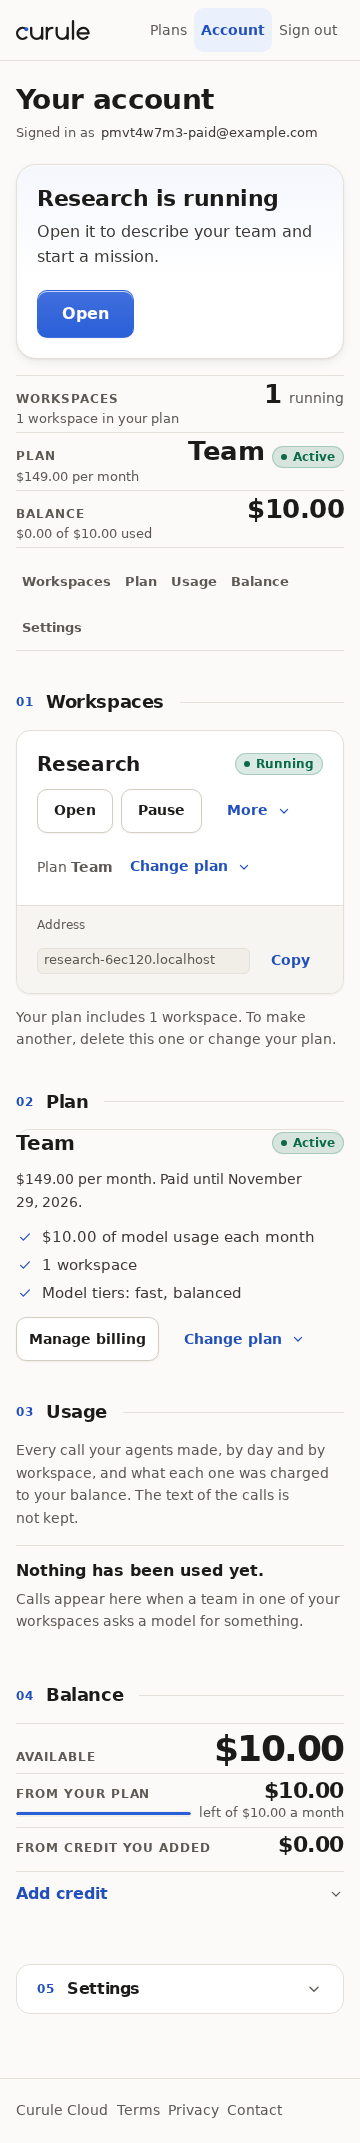
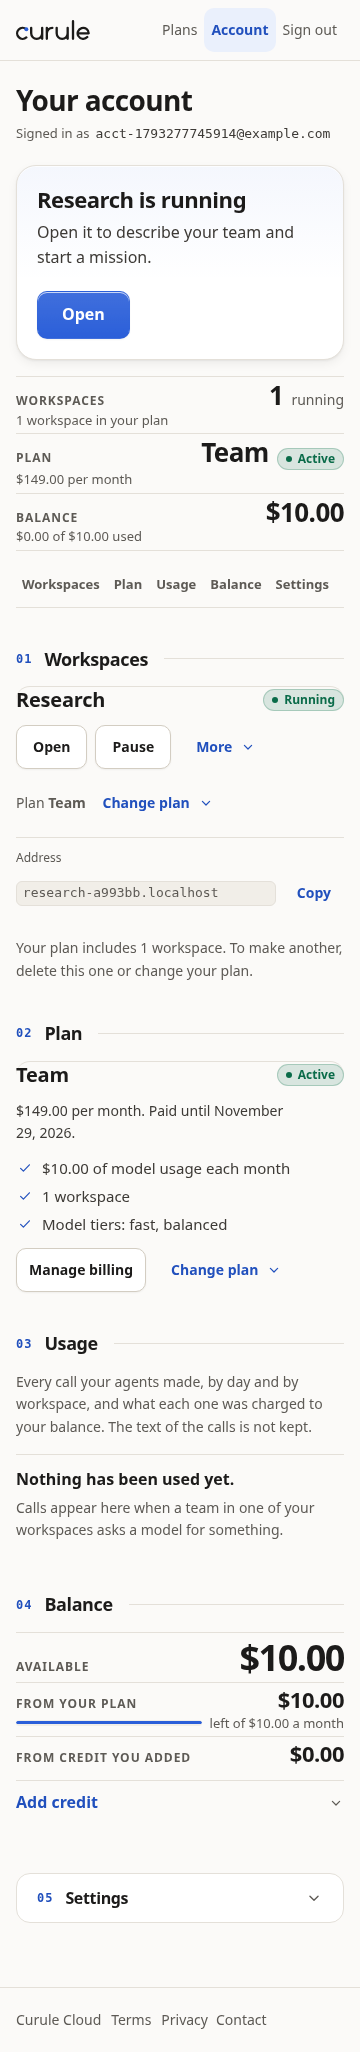
chore(ux): a seventh set of three passes of 29 Oct, with their before and after
The marketing site: the hero's plate holds one caption height, and its full-size link is a chip in the
plate's chrome (897c3ba). The account pages: the workspace is a record at a phone's edge, and More keeps
its row at 320 (78d6528). The console: a closed Overview row is one press across its width, not a handle
at its end (83a78be). The panel shows where the three surfaces stand now.

diff --git a/site/ux/index.html b/site/ux/index.html
@@ -53,7 +53,34 @@
   <h2>Where they stand now</h2>
   <div class="pair three"><a class="shot" href="shots/landing-now.png"><img src="shots/landing-now.png" alt="the landing page" loading="lazy"><span>the landing page</span></a><a class="shot" href="shots/account-now.png"><img src="shots/account-now.png" alt="the account pages" loading="lazy"><span>the account pages</span></a><a class="shot" href="shots/console-now.png"><img src="shots/console-now.png" alt="the console" loading="lazy"><span>the console</span></a></div>
 </section>
-<p class="stat"><span><b>66</b> passes</span><span><b>65</b> merged</span><span><b>4</b> surfaces</span><span>updated 29 Oct 2026 10:32</span></p>
+<p class="stat"><span><b>69</b> passes</span><span><b>68</b> merged</span><span><b>4</b> surfaces</span><span>updated 29 Oct 2026 16:20</span></p>
+<article class="pass">
+  <header>
+    <h2>the marketing site</h2>
+    <p class="when">29 Oct 2026 &middot; 15:57</p>
+  </header>
+  <div class="pair"><a class="shot" href="shots/20261029-1557-before.png"><img src="shots/20261029-1557-before.png" alt="At 360 &times; 800 in light, the home page scrolled to y = 500: under the pinned 69px header the price line's tail and Compare the plans sit at 22.8&ndash;103.8, the view switcher is a 268.7 &times; 50 trough whose third cell ends at x = 284.7 while the plate below it ends at 344, the plate's 40px chrome at 204.8&ndash;244.8 is empty on its right, the capture runs 244.8&ndash;448.6, and in the 4-line caption the third line starts at 514.8 &mdash; 31.8px under the second at 483 &mdash; because the 66.9 &times; 44 Full size link rides in it at x = 218.5&ndash;285.5, leaving a visible gap before &quot;each one opening in a reader. Full size &nearr;&quot;; the two notes follow at 577.5 and 634.3 and the first claim at 733.5." loading="lazy"><span>before this pass</span></a><a class="shot" href="shots/20261029-1557-after.png"><img src="shots/20261029-1557-after.png" alt="The same 360 &times; 800 light frame at the same y = 500: the switcher is now 328 &times; 50, its three 109.3px cells ending at x = 344 with the plate; the plate's 44px chrome carries Full size &nearr; as an 87.9 &times; 44 chip at x = 249.1&ndash;337 instead of in the caption; the caption is three evenly set lines starting at 467.5, 487 and 506.5 (19.5px apart) and 107px tall; the plate is 356.8px, the notes begin at 576.5 and the first claim at 732.5, and the three views all give the same 12,657px page." loading="lazy"><span>after</span></a></div>
+  <ul class="did"><li><b>The plate's way to its full size is a chip in its chrome, not a 44px box inside a 13px caption.</b> At 360 the inline link made the caption's last line 44px tall, so its third line stood 31.8px under the second (line tops 963.5 / 983 / 1,014.8) instead of 19.5; the same link, the same words and the same name are now an 87.9 &times; 44 chip in the bar (249.1&ndash;337, 44px of chrome, the bar 40 &rarr; 44) and the caption is three lines on the 19.5 grid (967.5 / 987 / 1,006.5). It is the 9th tab stop, the other two chips are display:none, no-script shows the right one from the same :checked rule, forced colours keep it LinkText with its 1px rule, and print hides the switcher and keeps the caption.</li><li><b>Switching view no longer moves the page: 19.5px before, 0 at every width.</b> At 360 the page was 12,658 with Overview and 12,677 with Events, and the proof 1,233.5 against 1,253; one caption height (107 at 360, 68 from 720) makes all three views 12,657 and the proof 1,232.5. The same holds at 320 (13,625 / 13,644 &rarr; 13,624), 390 (12,293 / 12,312 &rarr; 12,292) and 1,440, where the caption was 73 and is 68 and the page is 12,119.</li><li><b>On a phone the switcher is the plate's width: 268.7 &rarr; 328 at 360.</b> Its cells are 109.3 (were 87.6) and it ends at x = 344, the frame's own edge, instead of 284.7 (59.3 short); at 320 it is 288 (was 261.5) and at 390 358 (was 274). The rule stops at 720, where the control is a mouse target: 768 and 1,440 keep the 323.9px trough and the caption's two lines.</li><li><b>It costs nothing above the plate and gives 1px back: the plate is 356.8 (was 357.8 / 377.3) and the page 12,657 (was 12,658).</b> The 44px bar pays 4px, the caption's one height gives 5 back at the Overview view (112 &rarr; 107), and the page is 1px shorter at 320 / 360 / 390 / 1,440 and 20px at 768 (12,388 &rarr; 12,368, the caption 92.5 &rarr; 68). The eyebrow (85), h1 (150.6), lede (289), actions (458.8), price (522.8), switcher (637.8) and plate (703.8) are identical at 360, so the first screen is unchanged.</li><li><b>Nothing was lost.</b> 1,491 words, 42 links, 61 controls, 11 sections and 10 named captures in the same counts before and after; 70 page/width/theme pairs have 0 horizontal scroll, 0 text under 12px and 0 console errors; axe-core reports 0 WCAG 2.0&ndash;2.2 A/AA violations at 360 light and 1,440 dark. Every caption sentence stays (only the link's two words moved into the bar), the three aria-labels still name their capture, and the tour's seven other Full size links are untouched.</li></ul>
+  <p class="meta">8 files changed &middot; <code>897c3ba</code> &middot; suite green, merged</p>
+</article>
+<article class="pass">
+  <header>
+    <h2>the account pages</h2>
+    <p class="when">29 Oct 2026 &middot; 16:07</p>
+  </header>
+  <div class="pair"><a class="shot" href="shots/20261029-1607-before.png"><img src="shots/20261029-1607-before.png" alt="At 360 &times; 800 in light, scrolled so the contents line is cut at the top and 01 Workspaces begins at y = 124, the workspace named Research is a white rounded card from y = 686 to 950 that is 21px in from every rule around it &mdash; the name at x = 37, Open / Pause / More at x = 37&ndash;294.4, and the tinted address strip at 17&ndash;343 with Copy ending at 323 &mdash; while the Plan record 135px below starts at the page's edge: Team at x = 16 and Manage billing at x = 16&ndash;146.1." loading="lazy"><span>before this pass</span></a><a class="shot" href="shots/20261029-1607-after.png"><img src="shots/20261029-1607-after.png" alt="The same account, width, scheme and scroll: the workspace is a ruled record from y = 686 to 925.4 at the page's edge, its name at x = 16 in line with 01 Workspaces and with Team below, Open / Pause / More at x = 16&ndash;273.4 in line with Manage billing, its address a ruled line 16&ndash;344 with Copy ending on 344, the record 25px shorter and the Plan panel consequently 25px higher, at y = 1,022.1 with its own record at 1,060.6; the page is 2,052 instead of 2,077." loading="lazy"><span>after</span></a></div>
+  <ul class="did"><li><b>On a phone the workspace is a record at the page's edge, as the balance and the plan already are.</b> Below 721 the workspaces were the last record still drawn as a card: 20px of padding and a 1px border left its content <b>286px of the page's 328</b>, so &quot;Research&quot; began at x = 37 while <code>01 Workspaces</code>, <code>02 Plan</code>, <code>Team</code>, <code>$10.00</code> and <code>Add credit</code> all begin at 16, and its address strip sat at <b>17&ndash;343</b> &mdash; a pixel in from both edges. The phone rule that zeroes a record's card now names <code>.row</code> instead of the plan's own row, and the address strip loses the negative margins that bled it to a card's edge. Measured at 360: content box <b>37&ndash;323 &rarr; 16&ndash;344</b>, row <b>264.2 &rarr; 239.2px</b>, <code>Open</code>/<code>Pause</code>/<code>More</code> <b>37&ndash;294.4 &rarr; 16&ndash;273.4</b>, <code>Copy</code> <b>262.9&ndash;323 &rarr; 283.9&ndash;344</b>, page <b>2,077 &rarr; 2,052</b>.</li><li><b>At 320 the 42px the card's padding held was exactly the width the three actions needed.</b> <code>Open 71.5 + Pause 75.7 + More 94.2</code> and two 8px gaps are <b>257.4px</b> in the card's 248, so <code>More</code> dropped to a second row and the record was <b>318.4px</b>; given the page's 288 it is one 44px row at x = 16&ndash;273.4, the record <b>239.2</b> and the page <b>2,264 &rarr; 2,185</b> &mdash; 79px, the most any width gains. The address gains a line there too: <code>research-b32d75.localhost</code> is 217.9px of type and had 180, so its chip wrapped to <b>177.9 &times; 46.2</b>; at the edge it has 219.9 and is <b>219.9 &times; 25.4</b>, one line (address 90.4 &rarr; 88.2).</li><li><b>What it costs is 25px at every phone, and 768 and 1,440 do not move.</b> 390: <b>2,055 &rarr; 2,030</b>; 719 and 720 (the rule's edge): <b>1,788 &rarr; 1,763</b>; 721, where the card returns in both halves: <b>2,056</b> in both, and 768 <b>2,065</b> and 1,440 <b>2,102</b> to the pixel. Nothing above the record moves (stage 165&ndash;359.8, glance 375.8&ndash;550.7, contents 562.7&ndash;607.7, <code>01 Workspaces</code> 647.7) and everything below rises by the saving: Plan <b>1,047.1 &rarr; 1,022.1</b>, Usage <b>1,357.4 &rarr; 1,332.4</b>, Balance <b>1,618.5 &rarr; 1,593.5</b>, Settings <b>1,897.7 &rarr; 1,872.7</b>, the &quot;plan includes 1 workspace&quot; note <b>962.3 &rarr; 937.3</b>. A workspace while Starting is <b>319.8 &rarr; 294.8</b>, paused the record holds at 302.4 with <code>Resume</code> at 16, and with <code>/api/plans</code> answering 503 it is <b>208.2 &rarr; 183.2</b> (page 2,190 &rarr; 2,165).</li><li><b>Nothing else moved, and nothing was lost.</b> 20 views at 320 / 360 / 390 / 768 / 1,440 in light and dark: 0 horizontal scroll, <b>0</b> text under 12px, 0 console errors, the same 40 controls, and the same one control under 44 &times; 44 below 721 &mdash; the 41 &times; 44 <code>Plan</code> contents link the record already names. axe-core over 320, 360, 768 and 1,440 in both schemes finds <b>0</b> violations in both halves. With scripts off the account is the same 800px; forced colours and print are the same page 25px shorter; at a 32px root it is <b>4,287 &rarr; 4,228</b> with no overflow.</li><li><b>The honest cost: the card is gone, and the address was a band.</b> A reader who scanned for a workspace as a white panel now meets a ruled entry whose address is a ruled line, not a tinted footer &mdash; the grammar the plan took on 29 Oct and the balance on 28 Oct, applied one record further. <code>app.css</code> is <b>40,950 &rarr; 40,953 bytes of 40,960</b>: the address rule is 68 bytes, and it was paid for by writing the balance's card and the record's row &mdash; the same four declarations, twice &mdash; as the one rule they already were (205 bytes of rules &rarr; 140, plus the new 68). Seven bytes remain.</li></ul>
+  <p class="meta">2 files changed &middot; <code>78d6528</code> &middot; suite green, merged</p>
+</article>
+<article class="pass">
+  <header>
+    <h2>the console</h2>
+    <p class="when">29 Oct 2026 &middot; 16:10</p>
+  </header>
+  <div class="pair"><a class="shot" href="shots/20261029-1610-before.png"><img src="shots/20261029-1610-before.png" alt="At 360 &times; 800 in light, the delivered demo's Overview scrolled to the end of its 736 px view (scrollTop 352): four ruled rows &mdash; What shipped · 9 files, Latest work · 6 steps, Goal checks · 7 of 7 evidenced, Just happened · 508 events &mdash; stand between y = 524 and y = 772, each 336 px wide with its Show control a 56 &times; 44 button at the right edge (x = 284&ndash;340), and after a real press 40 px into the &quot;What shipped&quot; row's name at (60, 551) all four are still closed: the 264 px band beside every handle does nothing." loading="lazy"><span>before this pass</span></a><a class="shot" href="shots/20261029-1610-after.png"><img src="shots/20261029-1610-after.png" alt="The same view, mission state, width, theme and scrollTop 352 after the same press at (60, 551) on &quot;What shipped&quot;: the section is open in place &mdash; its &quot;9 files: 1 accepted, 1 approved, 1 merged, 6 ready for review.&quot; line, a 56 &times; 44 Hide control and the first file row (patch-tx-pipeline-2, merged, src/tx/Pipeline.java) now fill y = 574 to 800 where the before frame still showed four closed rows, and the other three rows are pushed below the frame." loading="lazy"><span>after</span></a></div>
+  <ul class="did"><li><b>A closed row is one press across its width, not a handle at its end.</b> At 360 the row is 336 &times; 53 and its Show control 56 &times; 44 at the right edge, so 264 px &mdash; 79% of the row &mdash; was dead: a pointer press 40 px into the name opened <b>0 of 4</b> sections at 320 (296 &times; 53 rows), 360 and 390 (366 &times; 53), while a press at the control's centre opened 4 of 4. The control's own pseudo-element now covers the closed section (a pseudo-element of a button <i>is</i> the button, so it keeps one control, one name and one tab stop): <b>4 of 4</b> at all three widths, and a real touch tap at (60, 681) opens it too.</li><li><b>The row says it is a door before the press.</b> Under the pointer the whole band takes <code>--panel-2</code> (its background was <code>rgba(0,0,0,0)</code>), and reached by the keyboard the same band lights under the control's existing 2 px ring; in forced colours, where a background is not a signal the system keeps, the band is a <b>2 px Highlight outline</b> where there was none. The Graph's phone rows have always been whole-row buttons (294 &times; 88 of a 294 &times; 88 row); the Overview's four doors were the console's only handle-only rows.</li><li><b>It costs 0 px at every width.</b> Heights are identical in both halves, in light and dark: 320 <b>1,107</b>, 360 <b>1,088</b>, 390 <b>1,043</b>, 620 <b>915</b>, 621 <b>3,166</b>, 768 <b>3,103</b>, 1,440 <b>1,751</b> &mdash; the row still 53, the control 56 &times; 44, the four names, figures and pills unchanged, nothing added or removed, and 29 tab stops in the page before and after.</li><li><b>The press cannot move its own target.</b> The shared small button nudges itself 0.5 px on <code>:active</code>, and a transformed button becomes the containing block of its own pseudo-element: the first shape collapsed the overlay to 56 &times; 44 between pointerdown and pointerup &mdash; measured at 360, pointerdown landed on <code>BUTTON.small</code>, the click on <code>DIV.card-head</code>, and the row stayed closed. The closed row's control keeps <code>transform: none</code> on <code>:active</code>; the pressed fill and shadow stay.</li><li><b>The floor holds.</b> 140 view &times; width &times; theme reads: no document or <code>#view</code> horizontal scroll, the smallest text 11 px (the avatar glyph), no control under 44 &times; 44 below 768 beyond the recorded 34 &times; 20 checkbox inside its 44 px label, 1 console error in both halves (the one-mesh <code>/api/projects</code> 404), and axe-core <b>0</b> violations on all fourteen views at 360 and 1,440 and on Overview at 390.</li><li><b>The cost, stated.</b> While a section is closed its words can no longer be dragged to select, because the row is the control there; the heading and figure are read in the body one press later, and the four <code>h3</code>s are still the page's outline. For a screen reader the row is still a heading and a figure with one button beside them &mdash; a door for a thumb, a heading and a control for a reader.</li></ul>
+  <p class="meta">4 files changed &middot; <code>83a78be</code> &middot; suite green, merged</p>
+</article>
 <article class="pass">
   <header>
     <h2>the marketing site</h2>
